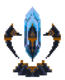
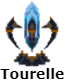
Tweaks ATH et texte sous les sbires

diff --git a/src/ricm3/game/ath/ATHPlayer.java b/src/ricm3/game/ath/ATHPlayer.java
@@ -84,11 +84,6 @@ public class ATHPlayer {
 		vie.add(m_heart1);
 		vie.add(m_heart2);
 
-		// JProgressBar energie = new JProgressBar(0, Options.initialEnergie);
-		// energie.setString(Integer.toString(Options.initialEnergie));
-		// energie.setStringPainted(true);
-		// energie.setValue(Options.initialEnergie);
-
 		Container VieEnergie = new Container();
 		VieEnergie.setLayout(new BoxLayout(VieEnergie, BoxLayout.Y_AXIS));
 		VieEnergie.add(vie);
@@ -107,7 +102,7 @@ public class ATHPlayer {
 
 		JPanel panel1 = new JPanel();
 		panel1.setBorder(BorderFactory.createBevelBorder(BevelBorder.RAISED, Color.BLACK, Color.BLACK));
-		panel1.setPreferredSize(new Dimension(50, 50));
+		panel1.setPreferredSize(new Dimension(70, 70));
 
 		m_label1 = new JLabel();
 		panel1.add(m_label1);
@@ -116,7 +111,7 @@ public class ATHPlayer {
 
 		JPanel panel2 = new JPanel();
 		panel2.setBorder(BorderFactory.createBevelBorder(BevelBorder.RAISED, Color.BLACK, Color.BLACK));
-		panel2.setPreferredSize(new Dimension(50, 50));
+		panel2.setPreferredSize(new Dimension(70, 70));
 
 		m_label2 = new JLabel();
 		panel2.add(m_label2);
@@ -125,7 +120,7 @@ public class ATHPlayer {
 
 		JPanel panel3 = new JPanel();
 		panel3.setBorder(BorderFactory.createBevelBorder(BevelBorder.RAISED, Color.BLACK, Color.BLACK));
-		panel3.setPreferredSize(new Dimension(50, 50));
+		panel3.setPreferredSize(new Dimension(70, 70));
 
 		m_label3 = new JLabel();
 		panel3.add(m_label3);
@@ -144,6 +139,7 @@ public class ATHPlayer {
 	public void step(long now) {
 		switch (m_player.getLife()) {
 		case 3:
+			m_heart2.setVisible(true);
 			break;
 		case 2:
 			m_heart2.setVisible(false);
